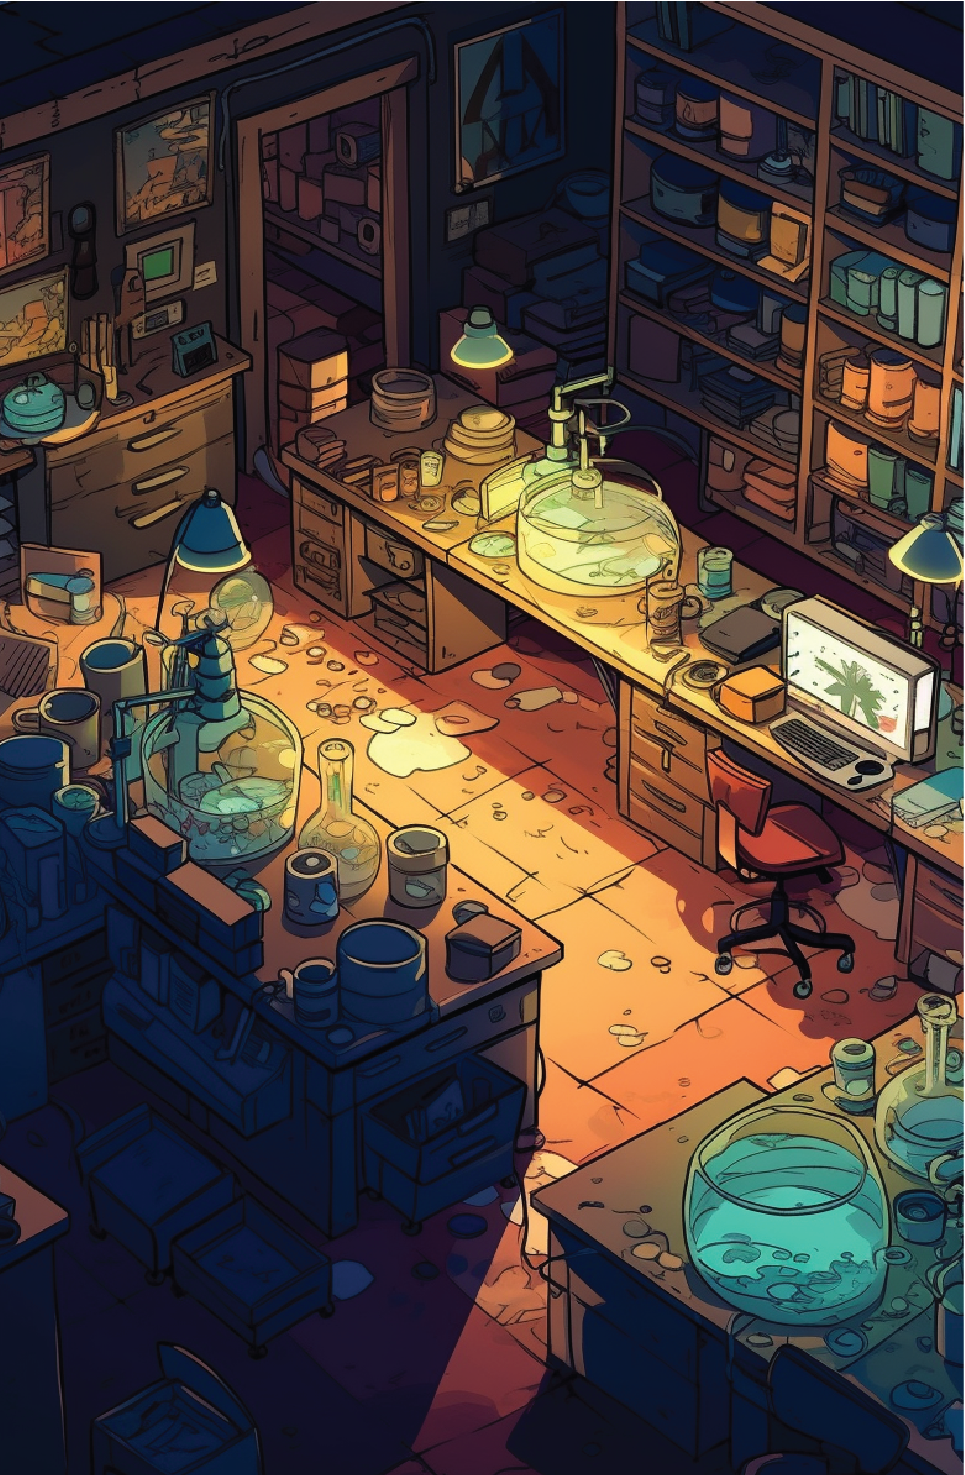
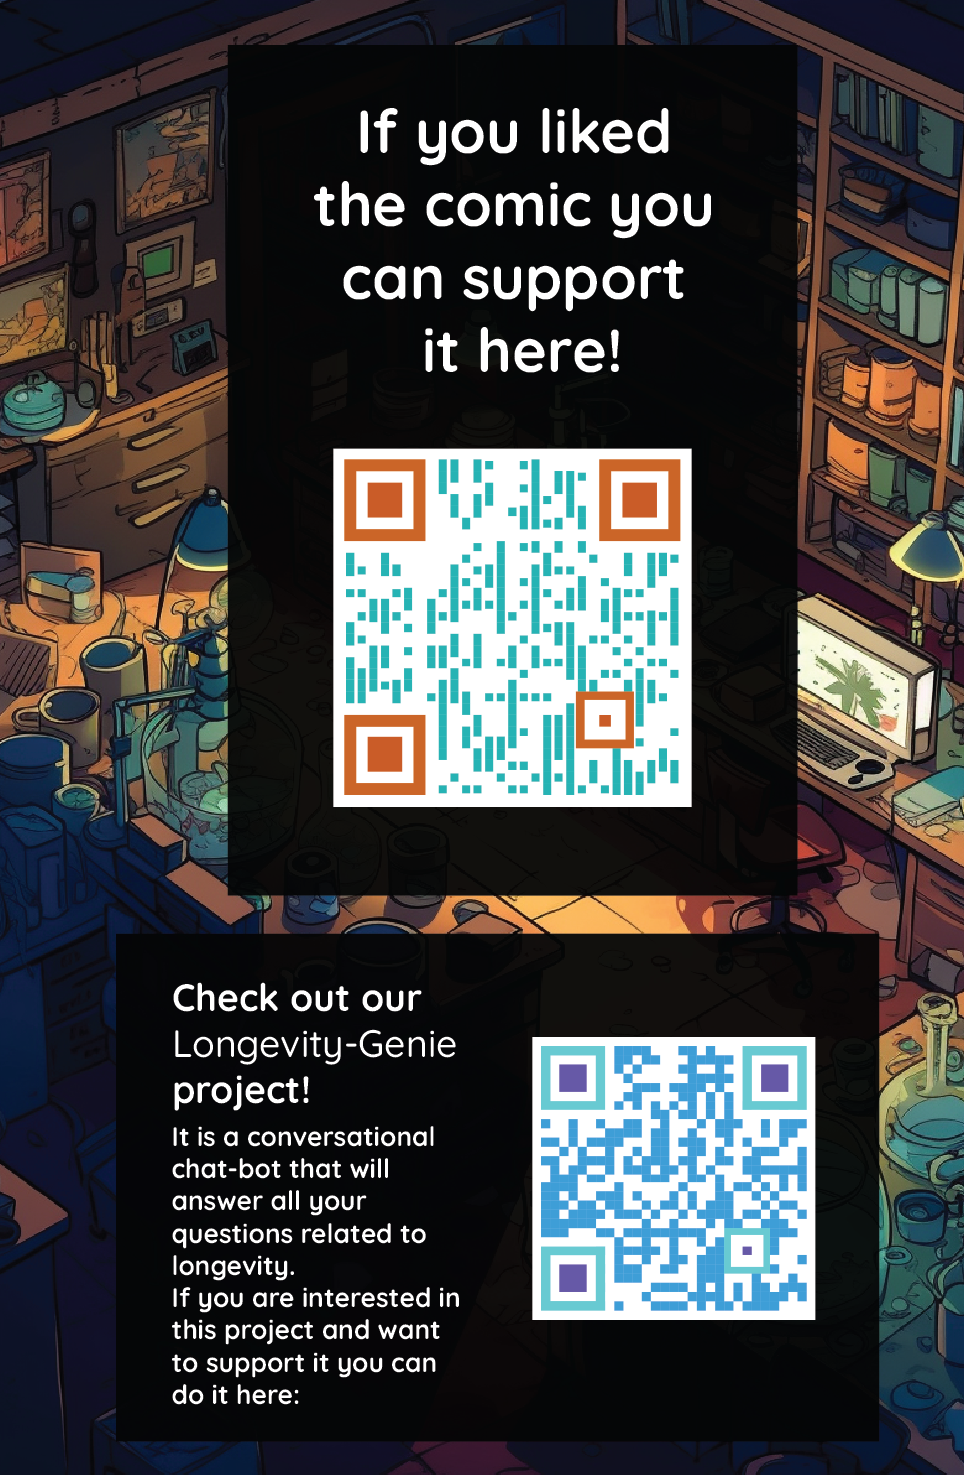
changed a few pages of the comic

diff --git a/dna-stories/index.html b/dna-stories/index.html
@@ -15,6 +15,31 @@
 	<script src="https://cdn.jsdelivr.net/npm/uikit@3.16.22/dist/js/uikit.min.js"></script>
 	<script src="https://cdn.jsdelivr.net/npm/uikit@3.16.22/dist/js/uikit-icons.min.js"></script>
     <link rel="icon" href="./images/icon.png">
+    <link rel="prefetch" href="./images/1.png">
+    <link rel="prefetch" href="./images/2.png">
+    <link rel="prefetch" href="./images/3.png">
+    <link rel="prefetch" href="./images/4.png">
+    <link rel="prefetch" href="./images/5.png">
+    <link rel="prefetch" href="./images/6.png">
+    <link rel="prefetch" href="./images/7.png">
+    <link rel="prefetch" href="./images/8.png">
+    <link rel="prefetch" href="./images/9.png">
+    <link rel="prefetch" href="./images/10.png">
+    <link rel="prefetch" href="./images/11.png">
+    <link rel="prefetch" href="./images/12.png">
+    <link rel="prefetch" href="./images/13.png">
+    <link rel="prefetch" href="./images/14.png">
+    <link rel="prefetch" href="./images/15.png">
+    <link rel="prefetch" href="./images/16.png">
+    <link rel="prefetch" href="./images/17.png">
+    <link rel="prefetch" href="./images/18.png">
+    <link rel="prefetch" href="./images/19.png">
+    <link rel="prefetch" href="./images/20.png">
+    <link rel="prefetch" href="./images/21.png">
+    <link rel="prefetch" href="./images/22.png">
+    <link rel="prefetch" href="./images/23.png">
+    <link rel="prefetch" href="./images/24.png">
+    <link rel="prefetch" href="./images/last.png">
     <title>Just-DNA-Seq Stories</title>
 </head>
 <body>
@@ -52,14 +77,21 @@
                 <a class="uk-inline" href="images/20.png"></a>
                 <a class="uk-inline" href="images/21.png"></a>
                 <a class="uk-inline" href="images/22.png" ></a>
-                <a class="uk-inline" href="images/23.png" ></a>
-                <a class="uk-inline" href="images/24.png" ></a>
+                <a class="uk-inline" href="images/23.png" data-caption="Example of a report: https://dna-seq.github.io/report_example/ Just-DNA-Seq project: https://dna-seq.github.io/"></a>
+                <a class="uk-inline" href="images/24.png" data-caption="Support the comic here: https://explorer.gitcoin.co/#/round/10/0x5b95acf46c73fd116f0fedadcbedf453530e35d0/0x5b95acf46c73fd116f0fedadcbedf453530e35d0-28"></a>
                 <a class="uk-inline" href="images/last.png"></a>
                 <div class="uk-animation-slide-right uk-animation-toggle box">
                     <a class="uk-button" href="images/1.png"> <img class=" cover uk-animation-kenburns" src="images/1.png" alt="cover of the comic" href="images/1.png"></a>
                 </div>
             </div>
         </div>
+        <script>
+            var elements = document.querySelector("uk-inline")
+
+            for (i=0; i++; i<range(elements)){
+                UIkit.lightbox(element).show(index);
+            }
+        </script>
 </div>
 </body>
 </html>
